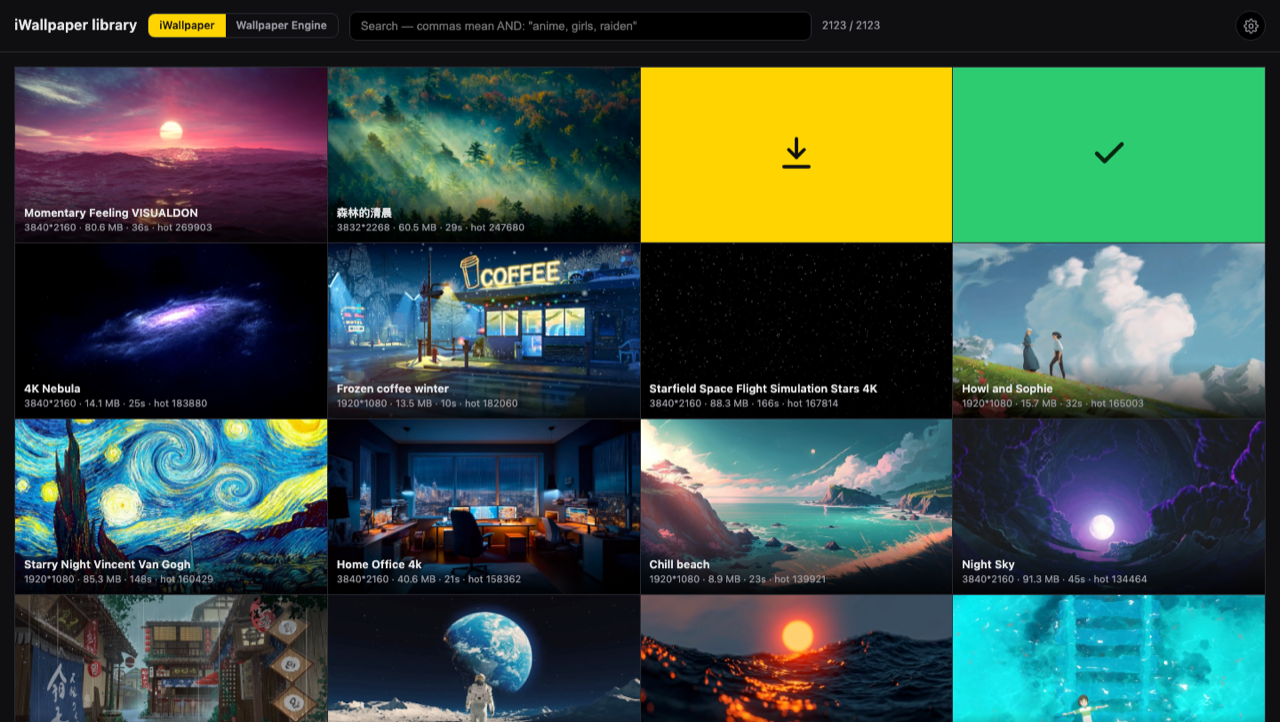
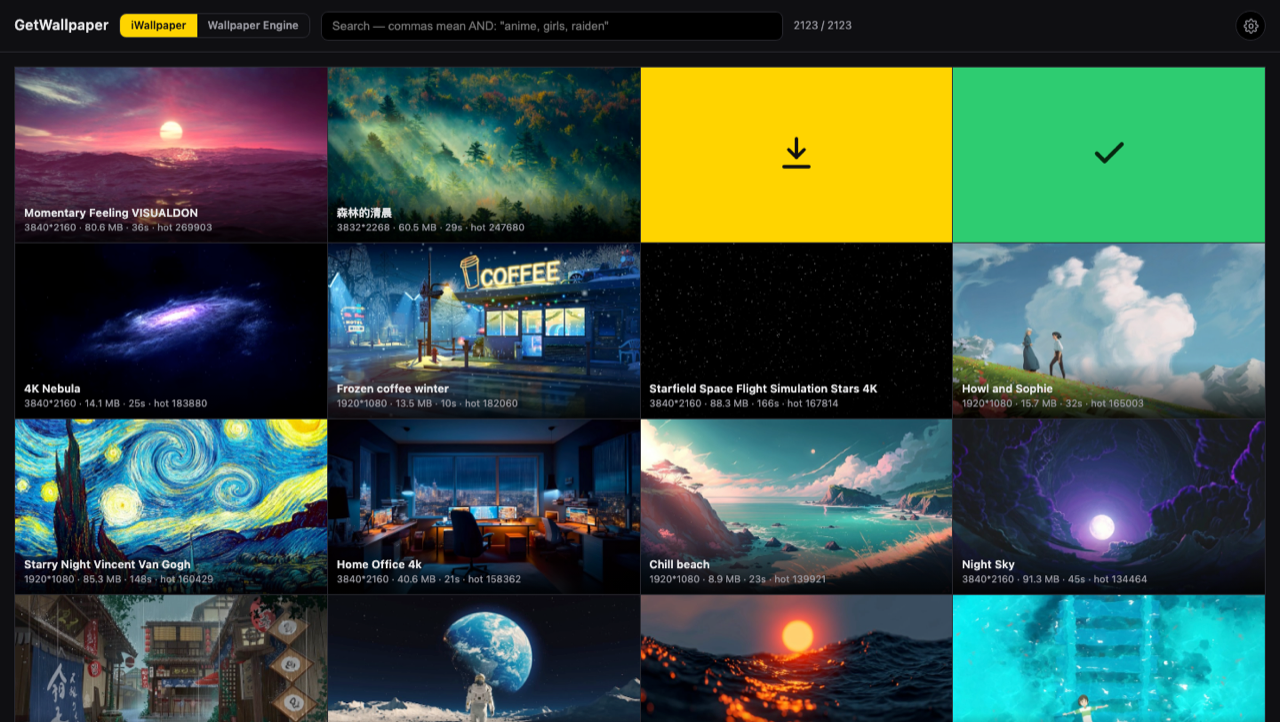
Rename to GetWallpaper (v0.1.2): branding, UI title, data-dir migration, refreshed screenshots

Changed region(s): [[0.0, 0.0, 0.5, 0.0609], [0.625, 0.0305, 0.6875, 0.0609]]

diff --git a/getw/webui.py b/getw/webui.py
@@ -55,11 +55,18 @@ def default_data_dir():
         base = os.environ.get("APPDATA") or os.path.expanduser("~")
     else:
         base = os.environ.get("XDG_DATA_HOME") or os.path.expanduser("~/.local/share")
-    return os.path.join(base, "GetWallapper")
+    return os.path.join(base, "GetWallpaper")
 
 
 STATE_DIR = os.environ.get("GETW_DATA_DIR") or (
     default_data_dir() if IS_PACKAGE else PKG_DIR)
+if IS_PACKAGE:
+    _legacy = STATE_DIR.replace("GetWallpaper", "GetWallapper")
+    if not os.path.exists(STATE_DIR) and os.path.exists(_legacy):
+        try:
+            os.rename(_legacy, STATE_DIR)
+        except OSError:
+            pass
 os.makedirs(STATE_DIR, exist_ok=True)
 we_source.configure_data_dir(STATE_DIR)
 
@@ -520,7 +527,7 @@ PAGE = r"""<!doctype html>
 <head>
 <meta charset="utf-8">
 <meta name="viewport" content="width=device-width, initial-scale=1">
-<title>iWallpaper library</title>
+<title>GetWallpaper</title>
 <style>
   :root { --bg:#0f0f12; --card:#1a1a1f; --line:#2a2a31; --txt:#e8e8ea; --dim:#9a9aa2; --yellow:#ffd400; }
   * { box-sizing:border-box; }
@@ -625,7 +632,7 @@ PAGE = r"""<!doctype html>
 </head>
 <body>
 <header>
-  <h1>iWallpaper library</h1>
+  <h1>GetWallpaper</h1>
   <div id="src">
     <button data-src="iw" class="on">iWallpaper</button>
     <button data-src="we">Wallpaper Engine</button>
@@ -1311,7 +1318,7 @@ class Handler(BaseHTTPRequestHandler):
 def start(port=8000, open_browser=True):
     server = ThreadingHTTPServer(("127.0.0.1", port), Handler)
     url = "http://127.0.0.1:%d/" % port
-    print("GetWallapper: %s" % url)
+    print("GetWallpaper: %s" % url)
     print("state dir:    %s" % STATE_DIR)
     print("downloads:    %s" % DOWNLOAD_ROOT)
     print("Ctrl-C to stop.")

diff --git a/getw/cli.py b/getw/cli.py
@@ -1,4 +1,4 @@
-"""getw — command line entry point for GetWallapper."""
+"""getw — command line entry point for GetWallpaper."""
 
 import argparse
 import os
@@ -44,7 +44,7 @@ def _cmd_start(args):
 def _cmd_setup(args):
     from . import webui
 
-    print("GetWallapper setup")
+    print("GetWallpaper setup")
     print("  data dir:        %s" % webui.STATE_DIR)
     print("  download folder: %s" % webui.DOWNLOAD_ROOT)
     answer = input("New download folder [Enter to keep]: ").strip()
@@ -100,7 +100,7 @@ def _dir_size(path):
 def _cmd_status(args):
     from . import webui
 
-    print("GetWallapper %s" % __version__)
+    print("GetWallpaper %s" % __version__)
     print("  data dir:         %s" % webui.STATE_DIR)
     print("  download folder:  %s" % webui.DOWNLOAD_ROOT)
     print("  iWallpaper files: %d downloaded" % len(webui.INDEX))
@@ -116,7 +116,7 @@ def _cmd_status(args):
 
 def main(argv=None):
     parser = argparse.ArgumentParser(
-        prog="getw", description="GetWallapper — live wallpaper gallery")
+        prog="getw", description="GetWallpaper — live wallpaper gallery")
     parser.add_argument("--version", action="version",
                         version="getw " + __version__)
     sub = parser.add_subparsers(dest="command")

diff --git a/getw/__init__.py b/getw/__init__.py
@@ -1,3 +1,3 @@
-"""GetWallapper — local web gallery for live wallpapers."""
+"""GetWallpaper — local web gallery for live wallpapers."""
 
-__version__ = "0.1.1"
+__version__ = "0.1.2"

diff --git a/README.md b/README.md
@@ -1,4 +1,4 @@
-# GetWallapper
+# GetWallpaper
 
 A local web gallery to **browse and download live wallpapers** from two sources:
 
@@ -8,7 +8,7 @@ A local web gallery to **browse and download live wallpapers** from two sources:
 It runs entirely on your machine: one Python process, a browser tab on
 `127.0.0.1`, no accounts, no telemetry.
 
-![GetWallapper grid](docs/grid.png)
+![GetWallpaper grid](docs/grid.png)
 
 ## Features
 
@@ -29,7 +29,7 @@ It runs entirely on your machine: one Python process, a browser tab on
 ### Option A — pip / pipx (recommended)
 
 Download the `.whl` from the
-[latest release](https://github.com/waifucave/GetWallapper/releases/latest) and:
+[latest release](https://github.com/waifucave/GetWallpaper/releases/latest) and:
 
 ```bash
 pipx install ./getw-*.whl
@@ -47,8 +47,8 @@ python3 getw.pyz start
 ### Option C — from source
 
 ```bash
-git clone https://github.com/waifucave/GetWallapper.git
-cd GetWallapper
+git clone https://github.com/waifucave/GetWallpaper.git
+cd GetWallpaper
 python3 -m getw start
 ```
 
@@ -111,9 +111,9 @@ asset URLs are pre-signed.
 
 Pure Python 3.10+ (standard library only). State lives in:
 
-- macOS: `~/Library/Application Support/GetWallapper/`
-- Windows: `%APPDATA%\GetWallapper\`
-- Linux: `~/.local/share/GetWallapper/`
+- macOS: `~/Library/Application Support/GetWallpaper/`
+- Windows: `%APPDATA%\GetWallpaper\`
+- Linux: `~/.local/share/GetWallpaper/`
 
 Override with `GETW_DATA_DIR`.
 
